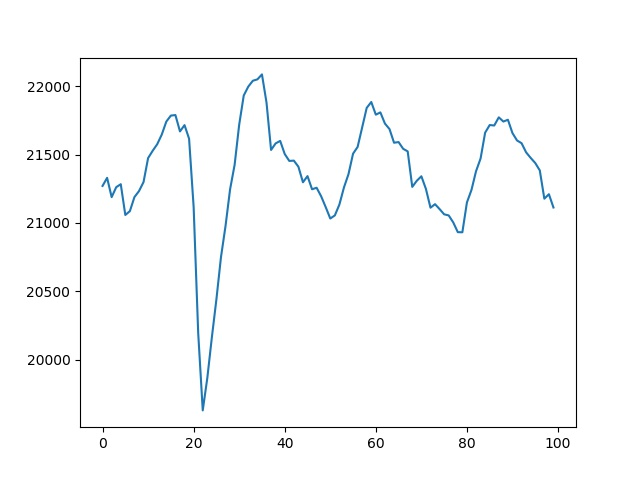
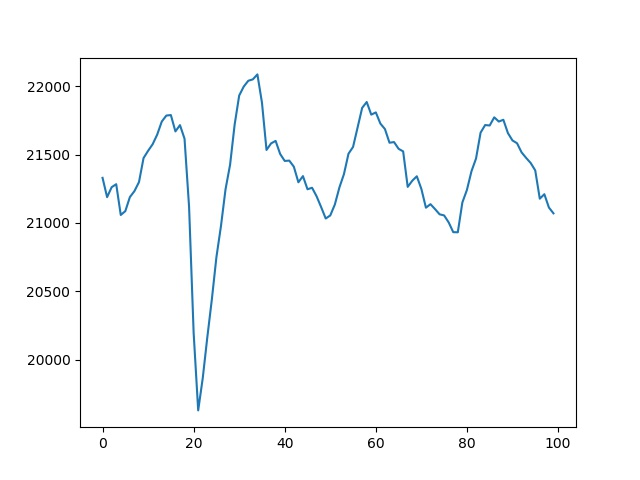
'auto'

diff --git a/README.md b/README.md
@@ -1,5 +1,5 @@
 Frizider live: 5
-21112.783333333333 
+21070.158333333333 
 0
 Temperatura:
 
